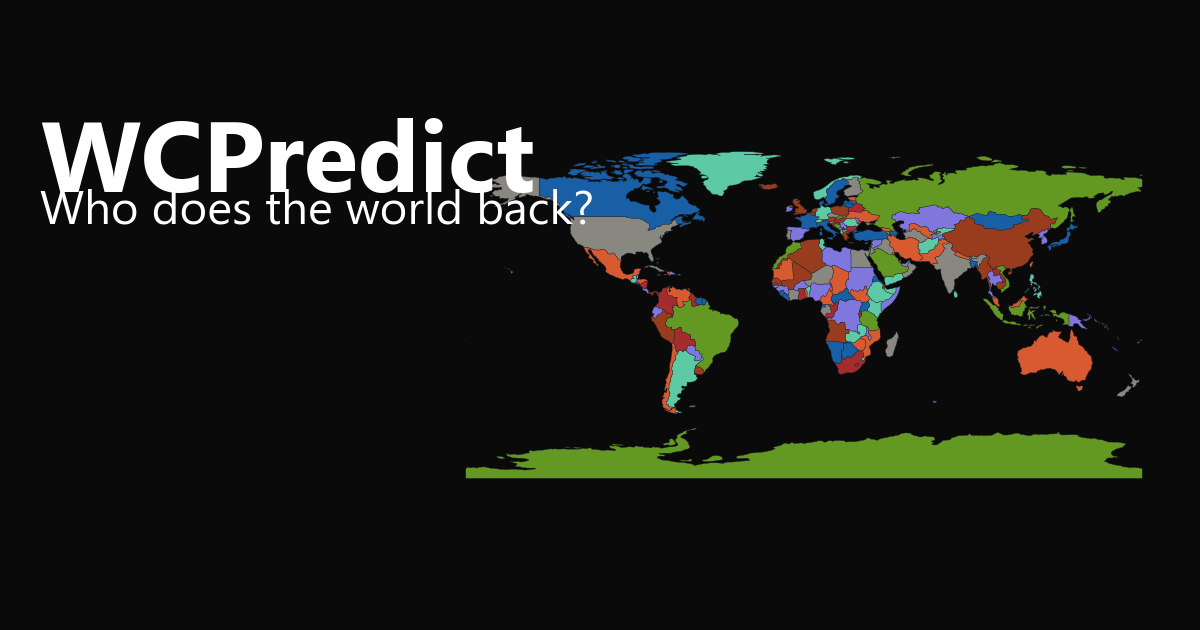
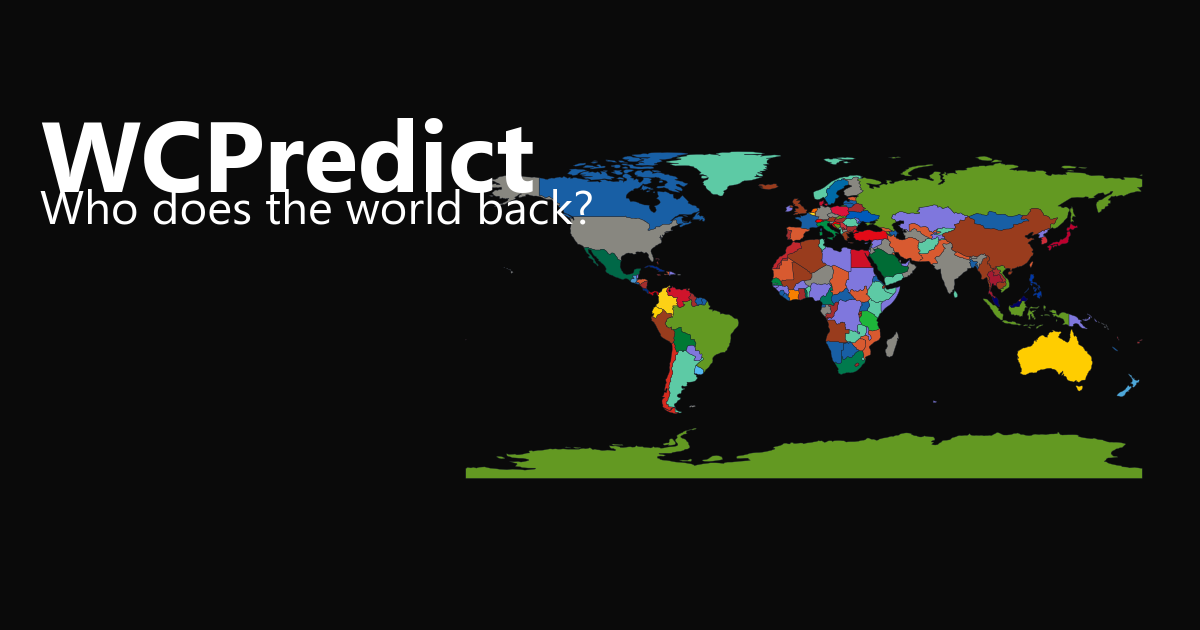
og-image: colour all 48 WC nations by team, leave rest random

diff --git a/scripts/apply-wc-team-colors.py b/scripts/apply-wc-team-colors.py
@@ -1,0 +1,106 @@
+"""Apply WC team colours to tournament nations in og-map-fills.json."""
+
+import json
+from pathlib import Path
+
+import geopandas as gpd
+
+# Live map legend colours from app.js TEAMS / TEAM_COLORS
+TEAM_COLORS = {
+    "Brazil": "#639922",
+    "France": "#185FA5",
+    "England": "#993C1D",
+    "Spain": "#D85A30",
+    "Argentina": "#5DCAA5",
+    "Germany": "#888780",
+    "Portugal": "#A32D2D",
+    "USA": "#888780",  # OG uses grey for host nation
+}
+
+# All 48 WC 2026 teams — kit-inspired colours for teams outside the live legend
+WC_TEAM_COLORS = {
+    **TEAM_COLORS,
+    "Mexico": "#006847",
+    "Canada": "#185FA5",
+    "Uruguay": "#55B7F0",
+    "Panama": "#DA020E",
+    "Bolivia": "#007934",
+    "Japan": "#BC002D",
+    "Australia": "#FFCD00",
+    "Morocco": "#C1272D",
+    "Cameroon": "#007A5E",
+    "Ecuador": "#FFD100",
+    "Venezuela": "#CF142B",
+    "Netherlands": "#FF6600",
+    "Colombia": "#FCD116",
+    "South Korea": "#CD2E3A",
+    "Senegal": "#00853F",
+    "Ivory Coast": "#F77F00",
+    "Italy": "#009246",
+    "Croatia": "#FF0000",
+    "Turkey": "#E30A17",
+    "Saudi Arabia": "#006C35",
+    "Egypt": "#CE1126",
+    "New Zealand": "#4DA8DA",
+    "Belgium": "#FDDA24",
+    "Serbia": "#C6363C",
+    "Poland": "#DC143C",
+    "Togo": "#006A4E",
+    "Thailand": "#A51931",
+    "Philippines": "#0038A8",
+    "Switzerland": "#FF0000",
+    "Chile": "#D52B1E",
+    "Costa Rica": "#002B7F",
+    "Guatemala": "#4997D0",
+    "South Africa": "#007A4D",
+    "Tanzania": "#1EB53A",
+    "Denmark": "#C8102E",
+    "Sweden": "#006AA7",
+    "Ukraine": "#005BBB",
+    "Bahrain": "#CE1126",
+    "Malaysia": "#010066",
+    "Cuba": "#002A8F",
+}
+
+# Natural Earth NAME or ADMIN -> WC team name
+COUNTRY_TO_TEAM = {
+    "United States of America": "USA",
+    "United Kingdom": "England",
+    "Ivory Coast": "Ivory Coast",
+    "Korea": "South Korea",
+    "South Korea": "South Korea",
+}
+
+for team in WC_TEAM_COLORS:
+    COUNTRY_TO_TEAM.setdefault(team, team)
+
+
+def team_for_country(label: str) -> str | None:
+    team = COUNTRY_TO_TEAM.get(label, label if label in WC_TEAM_COLORS else None)
+    return team if team in WC_TEAM_COLORS else None
+
+
+def main() -> None:
+    repo = Path(__file__).resolve().parents[1]
+    fills_path = repo / "scripts" / "og-map-fills.json"
+    fills = json.loads(fills_path.read_text(encoding="utf-8"))
+
+    url = (
+        "https://raw.githubusercontent.com/nvkelso/natural-earth-vector/"
+        "master/geojson/ne_110m_admin_0_countries.geojson"
+    )
+    world = gpd.read_file(url)
+
+    updated = []
+    for i, row in world.iterrows():
+        team = team_for_country(row["NAME"]) or team_for_country(row["ADMIN"])
+        if team:
+            fills[i] = WC_TEAM_COLORS[team]
+            updated.append(f"{row['NAME']} -> {team}")
+
+    fills_path.write_text(json.dumps(fills, indent=2) + "\n", encoding="utf-8")
+    print(f"Updated {len(updated)} tournament nations (of {len(WC_TEAM_COLORS)} teams)")
+
+
+if __name__ == "__main__":
+    main()

diff --git a/scripts/generate-og-image.py b/scripts/generate-og-image.py
@@ -1,12 +1,8 @@
 """Generate og-image.png for social sharing previews.
 
 The live site map (app.js) colours countries by World Cup team picks using
-TEAM_COLORS. This script uses that same palette with a fixed per-country
-assignment stored in og-map-fills.json — decorative only, not tied to
-predictions.
-
-The committed og-image.png and og-map-fills.json are canonical. Re-running
-this script preserves the same country colours.
+TEAM_COLORS. Tournament nations use wc-team colours from apply-wc-team-colors.py;
+all other countries keep their frozen random fills in og-map-fills.json.
 """
 
 from __future__ import annotations
@@ -28,17 +24,6 @@ BG = "#0a0a0a"
 TEXT = "#ffffff"
 SUBTEXT = "#ffffff"
 
-TEAM_COLORS = [
-    "#639922",  # Brazil
-    "#185FA5",  # France
-    "#993C1D",  # England
-    "#D85A30",  # Spain
-    "#5DCAA5",  # Argentina
-    "#888780",  # Germany
-    "#A32D2D",  # Portugal
-    "#7F77DD",  # USA
-]
-
 
 def load_font(bold: bool, size: int):
     candidates = (
@@ -56,11 +41,7 @@ def load_font(bold: bool, size: int):
 
 def load_country_fills(script_dir: Path) -> list[str]:
     fills_path = script_dir / "og-map-fills.json"
-    fills = json.loads(fills_path.read_text(encoding="utf-8"))
-    for color in fills:
-        if color not in TEAM_COLORS:
-            raise SystemExit(f"Unknown team colour in og-map-fills.json: {color}")
-    return fills
+    return json.loads(fills_path.read_text(encoding="utf-8"))
 
 
 def main() -> None:
